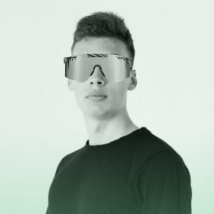
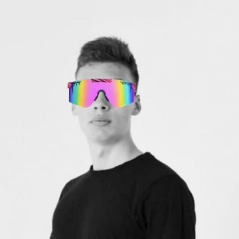
Menu Active Hover / Photo / Overlay

diff --git a/src/pages/HomePage/SectionTeam/SectionTeam.tsx b/src/pages/HomePage/SectionTeam/SectionTeam.tsx
@@ -7,7 +7,6 @@ import { GitHubIcon } from '../../../icons/GitHubIcon';
 import teamPhotoVlad from '../assets/images/team/teamPhotoVlad.jpg';
 import teamPhotoPhil from '../assets/images/team/teamPhotoPhil.jpg';
 import teamPhotoViktor from '../assets/images/team/teamPhotoViktor.jpg';
-import teamPhotoSid from '../assets/images/team/teamPhotoSid.jpg';
 import teamPhotoRoman from '../assets/images/team/teamPhotoRoman.jpg';
 import { TEAM_SECTION_ID } from '../constants';
 
@@ -23,7 +22,9 @@ export const SectionTeam: FC<{ navRef: { current: HTMLParagraphElement } }> = ({
         <h2 className={styles.teamTitle}>Meet the team</h2>
         <ul className={styles.teamList}>
           <li className={styles.teamItem}>
-            <img src={teamPhotoTim} alt="Tim" className={styles.teamPhoto} />
+            <div className={styles.teamPhotoWrapper}>
+              <img src={teamPhotoTim} alt="Tim" className={styles.teamPhoto} />
+            </div>
             <div className={styles.teamInfo}>
               <p className={styles.teamName}>Tim</p>
               <div className={styles.teamPosition}>
@@ -39,11 +40,13 @@ export const SectionTeam: FC<{ navRef: { current: HTMLParagraphElement } }> = ({
             </div>
           </li>
           <li className={styles.teamItem}>
-            <img
-              src={teamPhotoVedamire}
-              alt="Vedamire"
-              className={styles.teamPhoto}
-            />
+            <div className={styles.teamPhotoWrapper}>
+              <img
+                src={teamPhotoVedamire}
+                alt="Vedamire"
+                className={styles.teamPhoto}
+              />
+            </div>
             <div className={styles.teamInfo}>
               <p className={styles.teamName}>Vedamire</p>
               <div className={styles.teamPosition}>
@@ -59,7 +62,13 @@ export const SectionTeam: FC<{ navRef: { current: HTMLParagraphElement } }> = ({
             </div>
           </li>
           <li className={styles.teamItem}>
-            <img src={teamPhotoVlad} alt="Vlad" className={styles.teamPhoto} />
+            <div className={styles.teamPhotoWrapper}>
+              <img
+                src={teamPhotoVlad}
+                alt="Vlad"
+                className={styles.teamPhoto}
+              />
+            </div>
             <div className={styles.teamInfo}>
               <p className={styles.teamName}>Vlad</p>
               <div className={styles.teamPosition}>
@@ -75,7 +84,13 @@ export const SectionTeam: FC<{ navRef: { current: HTMLParagraphElement } }> = ({
             </div>
           </li>
           <li className={styles.teamItem}>
-            <img src={teamPhotoPhil} alt="Phil" className={styles.teamPhoto} />
+            <div className={styles.teamPhotoWrapper}>
+              <img
+                src={teamPhotoPhil}
+                alt="Phil"
+                className={styles.teamPhoto}
+              />
+            </div>
             <div className={styles.teamInfo}>
               <p className={styles.teamName}>Phil</p>
               <div className={styles.teamPosition}>
@@ -91,11 +106,13 @@ export const SectionTeam: FC<{ navRef: { current: HTMLParagraphElement } }> = ({
             </div>
           </li>
           <li className={styles.teamItem}>
-            <img
-              src={teamPhotoViktor}
-              alt="Viktor"
-              className={styles.teamPhoto}
-            />
+            <div className={styles.teamPhotoWrapper}>
+              <img
+                src={teamPhotoViktor}
+                alt="Viktor"
+                className={styles.teamPhoto}
+              />
+            </div>
             <div className={styles.teamInfo}>
               <p className={styles.teamName}>Viktor</p>
               <div className={styles.teamPosition}>
@@ -111,27 +128,13 @@ export const SectionTeam: FC<{ navRef: { current: HTMLParagraphElement } }> = ({
             </div>
           </li>
           <li className={styles.teamItem}>
-            <img src={teamPhotoSid} alt="Sid" className={styles.teamPhoto} />
-            <div className={styles.teamInfo}>
-              <p className={styles.teamName}>Sid</p>
-              <div className={styles.teamPosition}>
-                <span>Art Director</span>
-                <a
-                  href="https://twitter.com/SiD_Phi11ips"
-                  rel="noreferrer"
-                  target="_blank"
-                >
-                  <TwitterIcon width={24} />
-                </a>
-              </div>
+            <div className={styles.teamPhotoWrapper}>
+              <img
+                src={teamPhotoRoman}
+                alt="Roman"
+                className={styles.teamPhoto}
+              />
             </div>
-          </li>
-          <li className={styles.teamItem}>
-            <img
-              src={teamPhotoRoman}
-              alt="Roman"
-              className={styles.teamPhoto}
-            />
             <div className={styles.teamInfo}>
               <p className={styles.teamName}>Roman</p>
               <div className={styles.teamPosition}>

diff --git a/src/pages/StakeNftPages/styles.module.scss b/src/pages/StakeNftPages/styles.module.scss
@@ -325,10 +325,8 @@
     pointer-events: none;
     position: relative;
 
-    &:hover {
-      &::before {
-        display: none;
-      }
+    &::before {
+      opacity: 1;
     }
 
     .fraktCheckbox__lockMessage {
@@ -337,7 +335,7 @@
       left: 0;
       width: 100%;
       background: var(---color-gray-1-04);
-      z-index: 1;
+      z-index: 5;
       display: flex;
       align-items: center;
       justify-content: center;
@@ -363,7 +361,7 @@
         width: 100%;
         height: 100%;
         background: var(---color-gray-1-04);
-        z-index: 1;
+        z-index: 3;
       }
     }
   }

diff --git a/src/pages/HomePage/SectionTeam/styles.module.scss b/src/pages/HomePage/SectionTeam/styles.module.scss
@@ -36,8 +36,35 @@
 
 .teamPhoto {
   width: 100%;
-  position: relative;
   z-index: 1;
+  filter: grayscale(1);
+  display: block;
+}
+
+.teamPhotoWrapper {
+  position: relative;
+
+  &::before,
+  &::after {
+    content: '';
+    display: block;
+    position: absolute;
+    width: 100%;
+    height: 100%;
+    top: 0;
+    bottom: 0;
+    right: 0;
+    left: 0;
+  }
+
+  &::before {
+    background: #F6FFFA;
+    mix-blend-mode: color;
+  }
+
+  &::after {
+    background: linear-gradient(360deg, rgba(131, 214, 164, 0.3) 0%, rgba(131, 214, 164, 0) 39.02%);
+  }
 }
 
 .teamInfo {

diff --git a/src/components/AppNavigation/styles.module.scss b/src/components/AppNavigation/styles.module.scss
@@ -36,4 +36,8 @@
 
 .activeLink {
   color: var(--color-gray-7);
+
+  &:hover {
+    color: var(--color-gray-7);
+  }
 }
